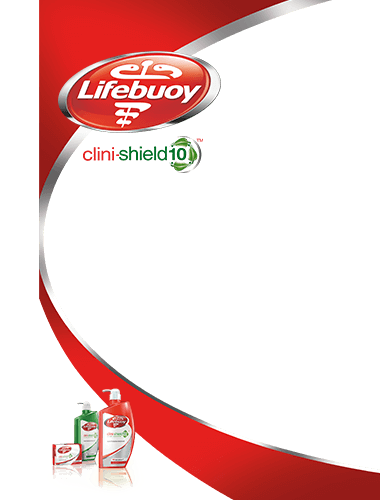
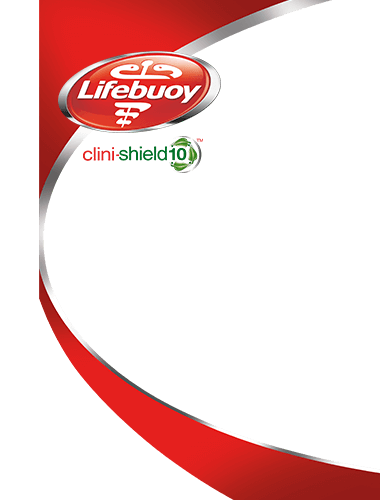
v1.0.8

Changed region(s): [[0.1158, 0.78, 0.3763, 0.99]]

diff --git a/web/js/main.js b/web/js/main.js
@@ -142,7 +142,6 @@ var msgObj = {
     headerText : 'baharu',
     tabletTextOnRegGerms : 'Kuman sekarang',
     tabletTextOnBlueGerms : 'Kuman zaman dulu',
-    textForDrop : '<< Klik untuk<br/><span class="with-margin">ketahui</span><br/><span class="with-margin">rahsia kita!</span>',
     redText : '10x perlindungan kuman*<br/>Lebih penjagaan kulit',
     greyText : 'dengan activ naturol shield',
     footerText : '*Berbanding sabun biasa tanpa bahan aktif.<br/>Berdasarkan ujian makmal terhadap penunjuk organisma.'
@@ -171,21 +170,23 @@ LifeBuoyAd.prototype.renderFirstScreen = function () {
     var bg = $('<div id="bg"></div>');
     var leaves = $('<div id="leaves"></div>');
     var drop = $('<div id="drop"></div>');
-    var textForDrop = $('<div id="text-for-drop"></div>');
+    var btnForDrop = $('<div id="btn-for-drop"></div>');
     var people = $('<div id="people"></div>');
     var tablet = $('<div id="tablet"></div>');
     var footer = $('<div id="footer"></div>');
     var redText = $('<div id="red-text"></div>');
     var greyText = $('<div id="grey-text"></div>');
+    var pack = $('<div id="pack"></div>');
 
     $(this.sdk.contentTag).append(content);
 
     headerText.html(msgObj.headerText);
     content.append(headerText);
 
+    content.append(pack);
+
     content.append(leaves);
-    leaves.append(textForDrop);
-    textForDrop.html(msgObj.textForDrop);
+    content.append(btnForDrop);
 
     content.append(bg);
     content.append(drop);
@@ -203,10 +204,11 @@ LifeBuoyAd.prototype.renderFirstScreen = function () {
     footer.html(msgObj.footerText);
     content.append(footer);
 
-    drop.click(function () {
-        textForDrop.remove();
-
-        $(this).animate({
+    $(this.sdk.contentTag).on('click', function () {
+        btnForDrop.animate({
+            opacity: '0'
+        }, 1000, null);
+        drop.animate({
             top: '0'
         }, 1000, createShiningDrop);
     });
@@ -228,20 +230,23 @@ LifeBuoyAd.prototype.renderFirstScreen = function () {
             opacity: '1'
         },1000, null);
 
+        $(self.sdk.contentTag).off('click');
+
         setTimeout(function () {
             people.animate({
                 opacity: '0'
             },1000, null);
 
-            var btn = $('<a href="#" target="_blank" id="btn"></a>');
+            var btn = $('<a href="https://www.youtube.com/watch?v=QYzp3SKsw_8" target="_blank" id="btn"></a>');
             content.append(btn);
             btn.animate({
                 opacity: '1'
             },1000, null);
-            $(btn).on('click', function (e) {
+            $(self.sdk.contentTag).on('click', function (e) {
                 e.preventDefault();
-                self.sdk.linkOpener('https://www.facebook.com/LifebuoyMalaysia');
-            })
+                self.sdk.tracker('CTR', 'ly_youtubelp');
+                self.sdk.linkOpener('https://www.youtube.com/watch?v=QYzp3SKsw_8');
+            });
             var shiningBottle = $('<div id="shining-bottle"></div>');
             content.append(shiningBottle);
             shiningBottle.animate({
@@ -267,16 +272,20 @@ LifeBuoyAd.prototype.preloadImages = function (parent) {
     'var pic8 = new Image();' +
     'var pic9 = new Image();' +
     'var pic10 = new Image();' +
+    'var pic11 = new Image();' +
+    'var pic12 = new Image();' +
     'pic1.src="img/bg1.png";' +
     'pic2.src="img/bottle1.png";' +
     'pic3.src="img/bottle-pure1.png";' +
-    'pic4.src="img/btn1.png";' +
+    'pic4.src="img/btn-first-screen.png";' +
     'pic5.src="img/doctor1.png";' +
     'pic6.src="img/drop1.png";' +
     'pic7.src="img/leaves1.png";' +
     'pic8.src="img/people1.png";' +
     'pic9.src="img/shining-drop1.png";' +
-    'pic10.src="img/tablet1.png";';
+    'pic10.src="img/tablet1.png";' +
+    'pic11.src="img/btn-second-screen.png";' +
+    'pic12.src="img/pack.png";';
 
     script.innerHTML = str;
 

diff --git a/web/css/style.css b/web/css/style.css
@@ -25,6 +25,17 @@ body {
     background: white;
 }
 
+#pack {
+    width: 400px;
+    height: 218px;
+    background: url("../img/pack.png") no-repeat;
+    background-size: contain;
+    z-index: 3;
+    position: absolute;
+    left: -65px;
+    bottom: -40px;
+}
+
 #content {
     width: 320px;
     height: 480px;
@@ -118,29 +129,16 @@ body {
     right: -15px;
     top: -90px;
 }
-#text-for-drop {
+#btn-for-drop {
     opacity: 1;
+    cursor: pointer;
+    height: 45px;
+    width: 125px;
     position: absolute;
-    bottom: -30px;
-    right: 15px;
-    font-size: 10px;
-    font-weight: lighter;
-    color: #242526;
-    animation-name: textAnimation;
-    animation-duration: 1s;
-    animation-timing-function: linear;
-    animation-delay: 1s;
-    animation-iteration-count: infinite;
-    animation-fill-mode: forwards;
-    -webkit-animation-name: textAnimation;
-    -webkit-animation-duration: 1s;
-    -webkit-animation-timing-function: linear;
-    -webkit-animation-delay: 1s;
-    -webkit-animation-iteration-count: infinite;
-    -webkit-animation-fill-mode: forwards;
-}
-#text-for-drop .with-margin {
-    margin-left: 15px;
+    left: 20px;
+    top: 215px;
+    background: url("../img/btn-first-screen.png") no-repeat;
+    background-size: contain;
 }
 
 #grey-text {
@@ -191,13 +189,13 @@ body {
     z-index: 1;
     display: block;
     text-decoration: none;
-    width: 127px;
-    height: 31px;
-    background: url("../img/btn1.png") no-repeat;
+    width: 125px;
+    height: 45px;
+    background: url("../img/btn-second-screen.png") no-repeat;
     background-size: contain;
     position: absolute;
-    left: 28px;
-    top: 225px;
+    left: 20px;
+    top: 220px;
     opacity: 0;
 }
 

diff --git a/web/mw.html b/web/mw.html
@@ -1,0 +1,30 @@
+
+<html>
+<head>
+    <meta charset="utf-8">
+	<meta http-equiv="X-UA-Compatible" content="IE=edge">
+    <meta name="viewport" content="width=device-width, initial-scale=1">
+
+</head>
+<body>
+
+
+<!--
+Rich Media Ad Tag 
+Platform: Mobilewalla
+RM Type: NON-MRAID
+-->
+<script type='text/javascript'>
+var rma ={
+'campaignId':'0d1b453eefbcaae8a35dde2126864b77',
+'secure':'true',
+'cb':'${mw_bid_id}',
+'trackExp':'__MW_CLICK_URL__',
+'customize':{'custTracker':['https://track.richmediaads.com/a/analytic.htm?uid=0&isNew={{isNew}}&referredUrl={{referredUrl}}&rmaId={{rmaId}}&domainId=0&pageLoadId={{pageLoadId}}&userId={{userId}}&pubUserId=0&campaignId={{campaignId}}&browser={{browser}}&os={{os}}&domain={{domain}}&callback=trackSuccess&callback=trackSuccess&type={{type}}&tt={{tt}}&value={{value}}','https://trk.mwstats.net/stats/interaction.png?ii={{type}}&id=${mw_bid_id}&li=${mw_lineitem_id}&t=${mw_timestamp}&cr=${mw_creative_id}']},
+'customId':'${mw_exchange_id}'
+};
+</script>
+<img src='https://track.mobileads.com/t?i=0d1b453eefbcaae8a35dde2126864b77&cb=${mw_bid_id}&customId=${mw_exchange_id}' width='0' height='0' style='display:none' onerror="this.src='https://track.richmediaads.com/t?i=0d1b453eefbcaae8a35dde2126864b77&cb=${mw_bid_id}&customId=${mw_exchange_id}&customId=adblock'" /><script type='text/javascript' src='https://cdn.richmediaads.com/general.js'></script><img src="__MW_IMPRESSION_URL__" width="0" height="0" style="display:none" />
+ 
+</body>
+</html>

diff --git a/web/ma.html b/web/ma.html
@@ -1,0 +1,17 @@
+<!--
+Rich Media Ad Tag 
+Platform: Mobilewalla
+RM Type: MRAID
+-->
+<script type='text/javascript'>
+var rma ={
+'campaignId':'9813bd94a90a0f6ab304bceb54342796',
+'secure':'true',
+'cb':'${mw_bid_id}',
+'trackExp':'__MW_CLICK_URL__',
+'customize':{'custTracker':['https://track.richmediaads.com/a/analytic.htm?uid=0&isNew={{isNew}}&referredUrl={{referredUrl}}&rmaId={{rmaId}}&domainId=0&pageLoadId={{pageLoadId}}&userId={{userId}}&pubUserId=0&campaignId={{campaignId}}&browser={{browser}}&os={{os}}&domain={{domain}}&callback=trackSuccess&callback=trackSuccess&type={{type}}&tt={{tt}}','https://trk.mwstats.net/stats/interaction.png?ii={{type}}&id=${mw_bid_id}&li=${mw_lineitem_id}&t=${mw_timestamp}&cr=${mw_creative_id}']},
+'customId':'${mw_exchange_id}'
+};
+</script>
+<img src='https://track.mobileads.com/t?i=9813bd94a90a0f6ab304bceb54342796&cb=${mw_bid_id}&customId=${mw_exchange_id}' width='0' height='0' style='display:none' onerror="this.src='https://track.richmediaads.com/t?i=9813bd94a90a0f6ab304bceb54342796&cb=${mw_bid_id}&customId=${mw_exchange_id}&customId=adblock'" /><script src='mraid.js'></script><script type='text/javascript' src='https://cdn.richmediaads.com/general.js'></script><img src="__MW_IMPRESSION_URL__" width="0" height="0" style="display:none" />
+
